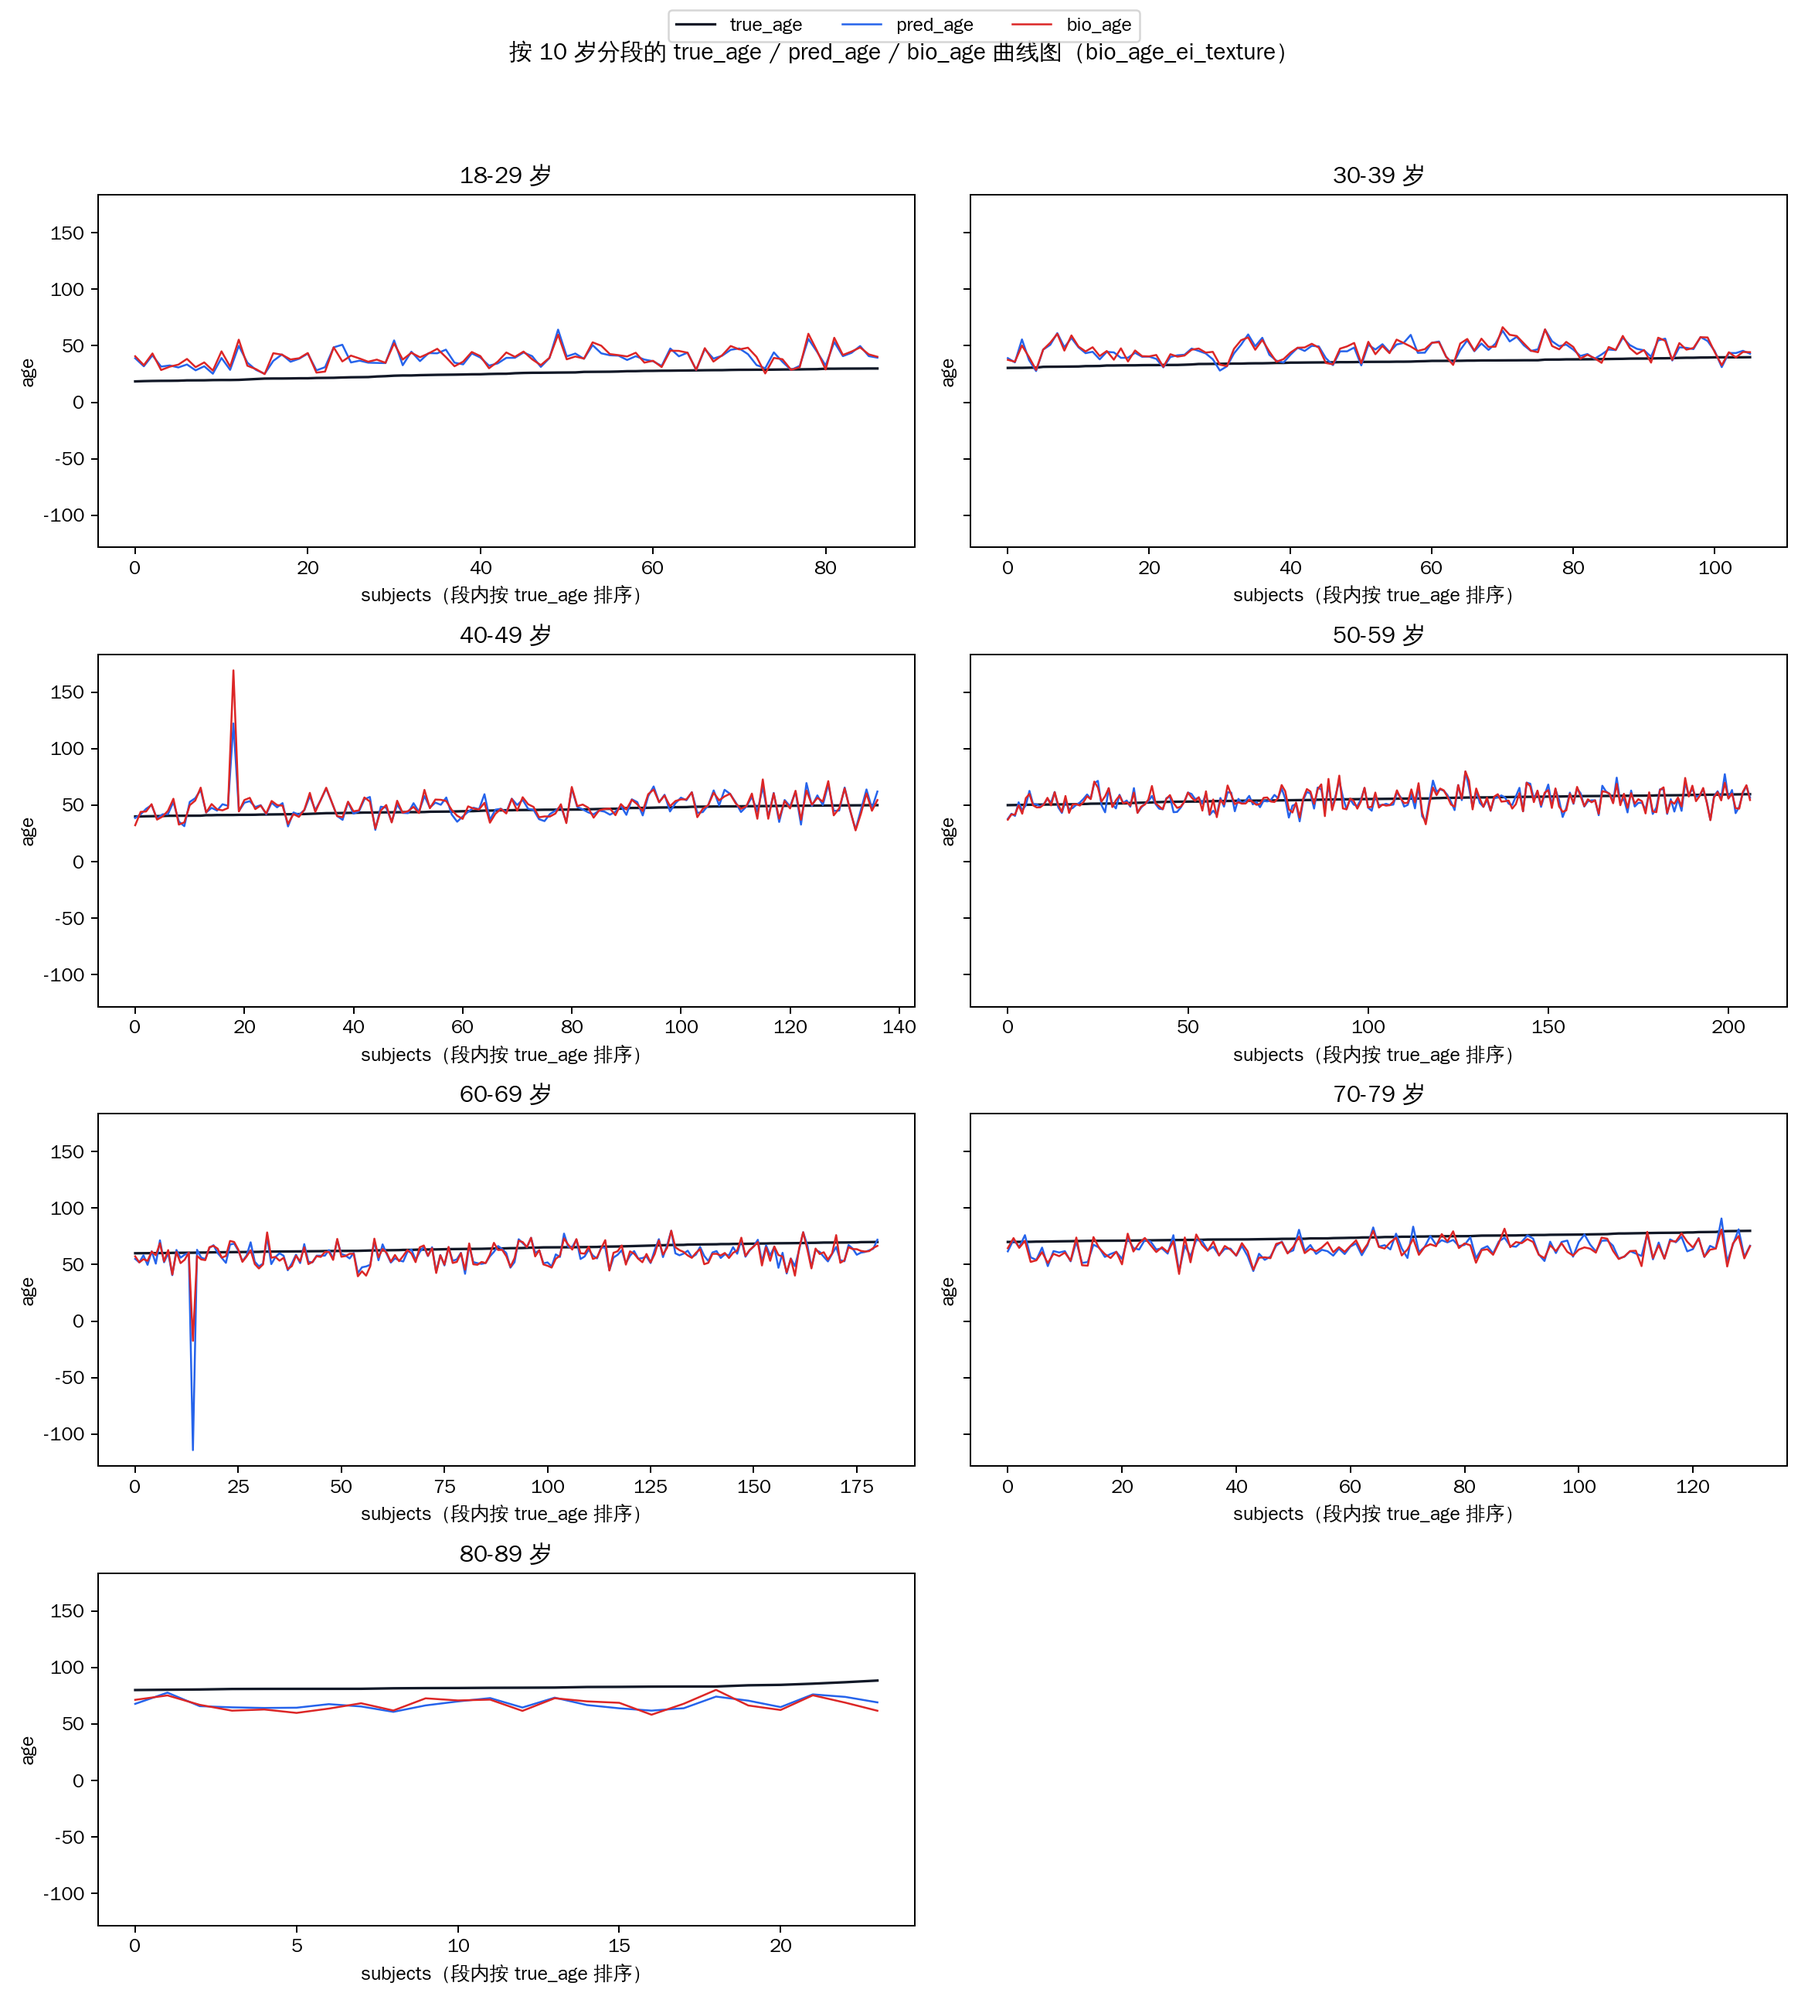
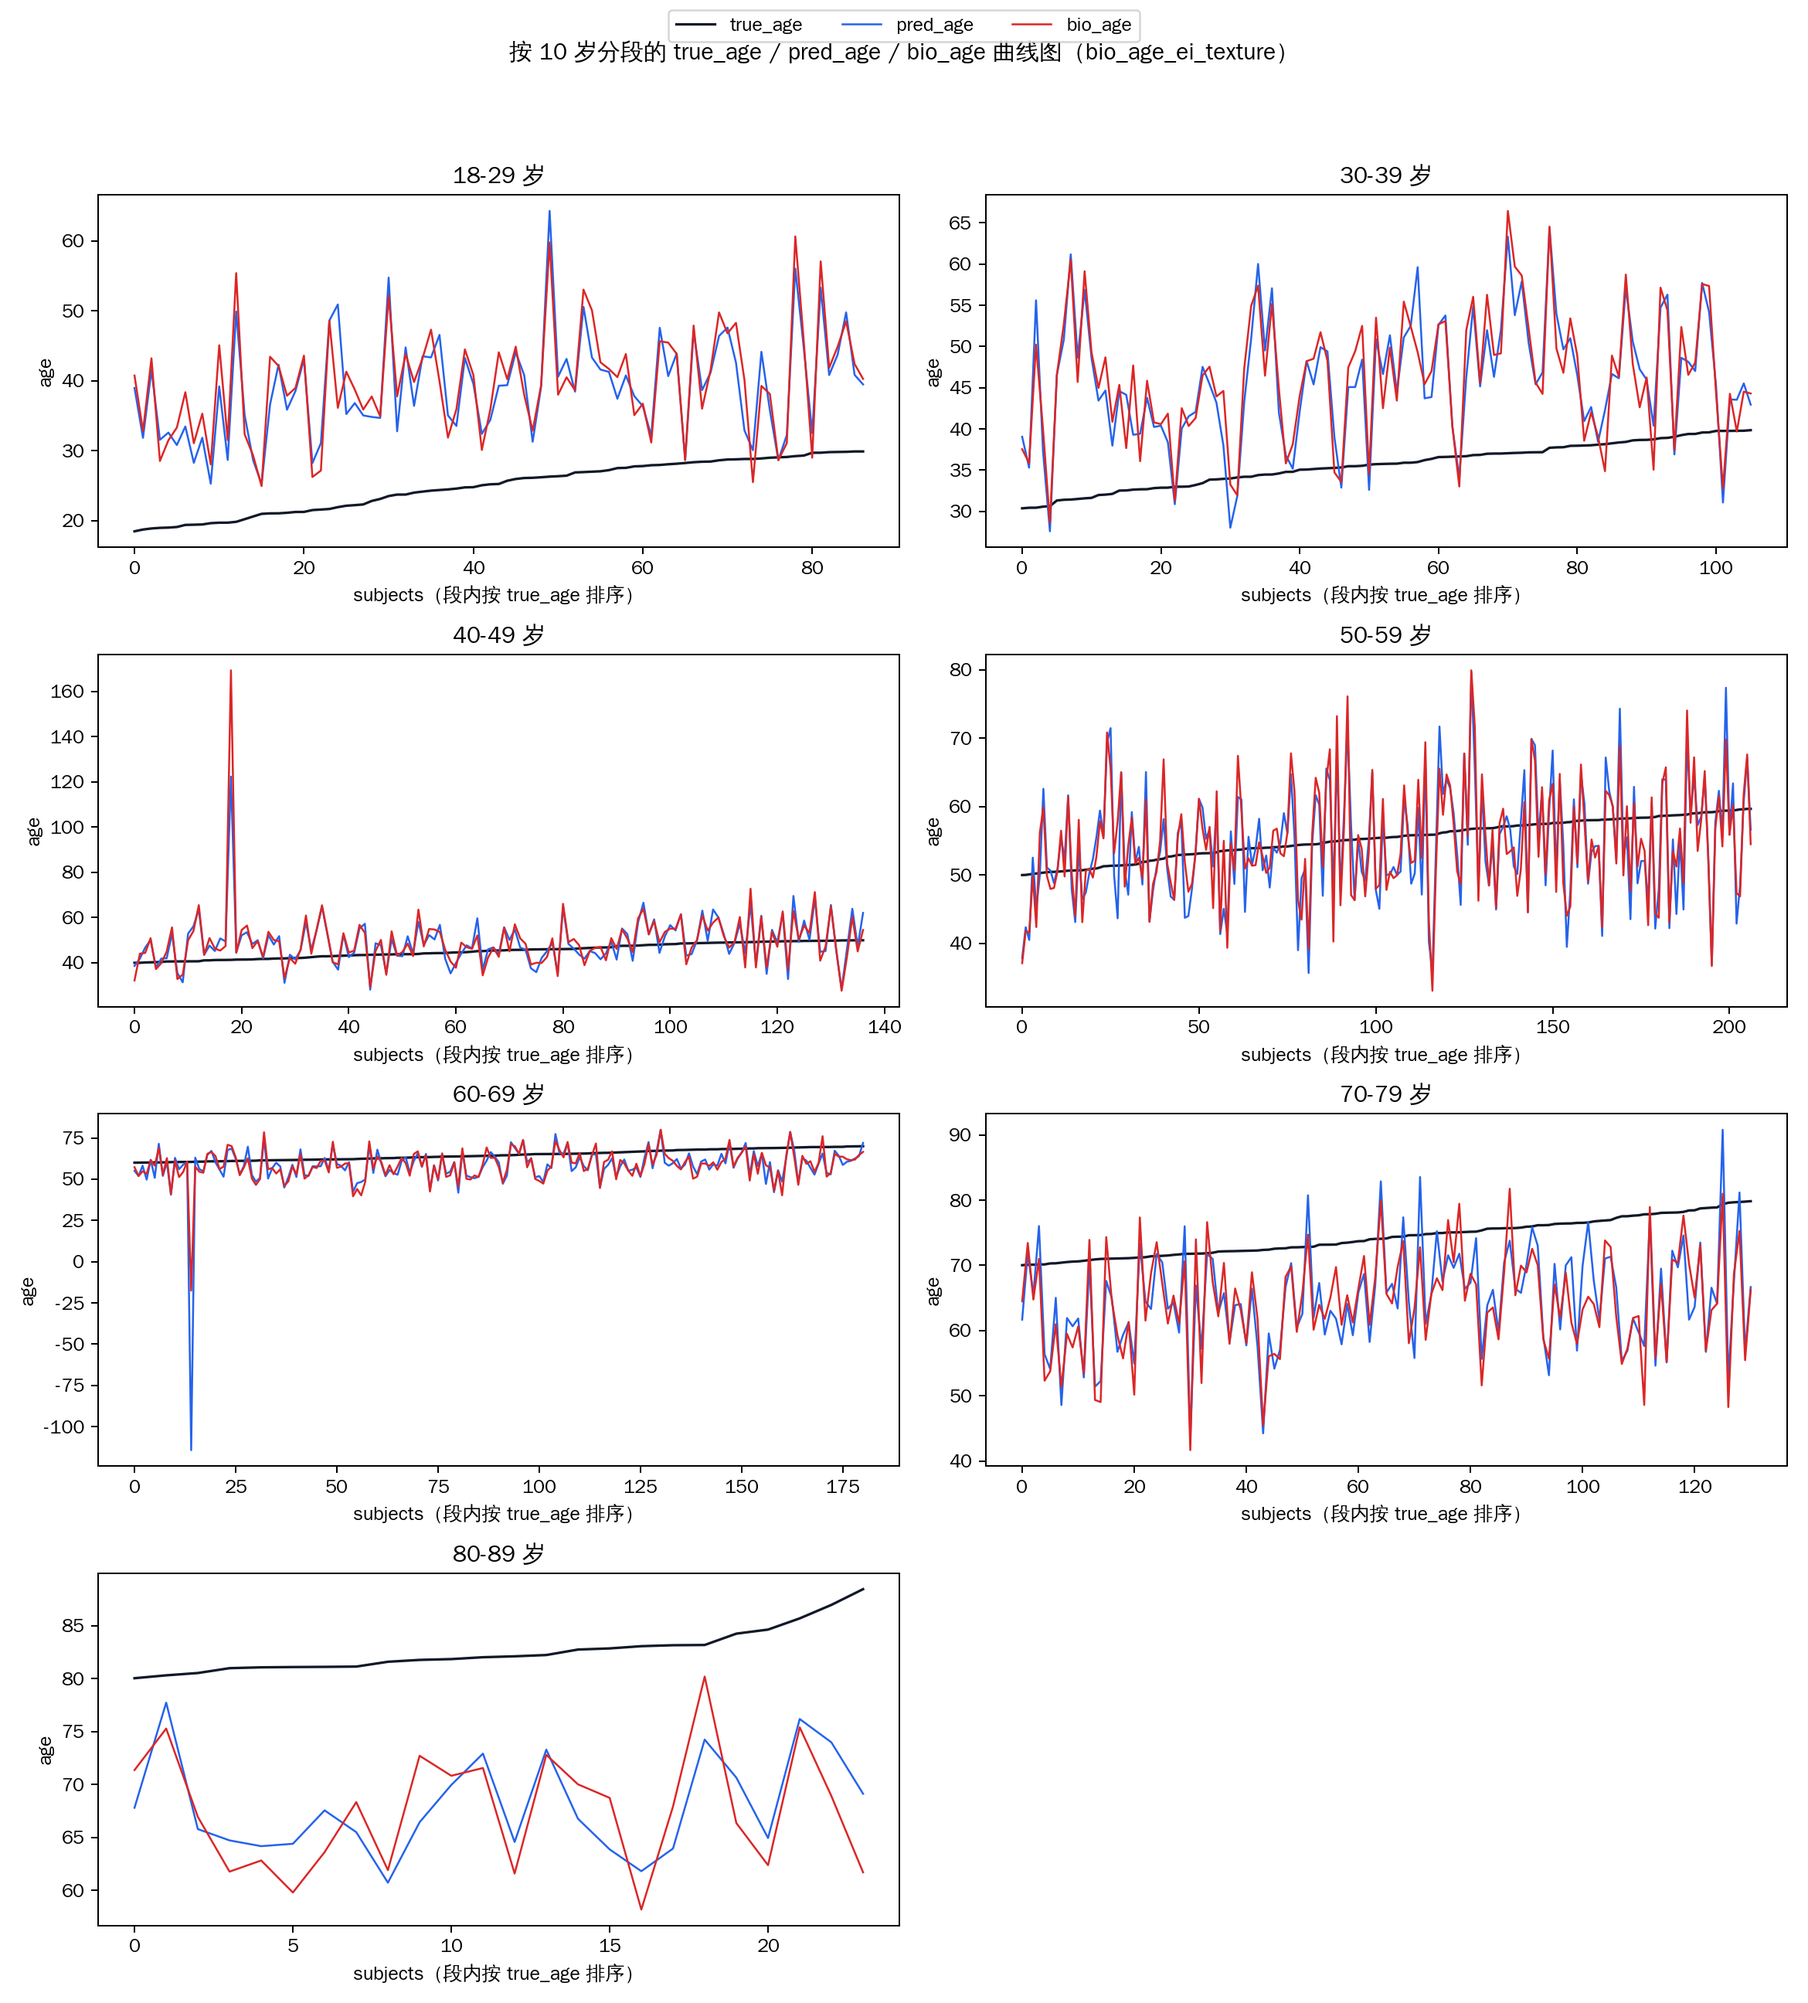
Auto-scale y-axis for 10-year segmented curves

diff --git a/state_age_feature_benchmark/build_single_ml_report.py b/state_age_feature_benchmark/build_single_ml_report.py
@@ -134,7 +134,7 @@ def save_age_segment_curve_plot(frame: pd.DataFrame, path: Path, title: str) -> 
     n_panels = len(groups)
     n_cols = 2
     n_rows = int(np.ceil(n_panels / n_cols))
-    fig, axes = plt.subplots(n_rows, n_cols, figsize=(13, max(8, 3.6 * n_rows)), sharey=True)
+    fig, axes = plt.subplots(n_rows, n_cols, figsize=(13, max(8, 3.6 * n_rows)), sharey=False)
     axes = axes.flatten()
     for ax in axes[len(groups):]:
         ax.axis("off")
